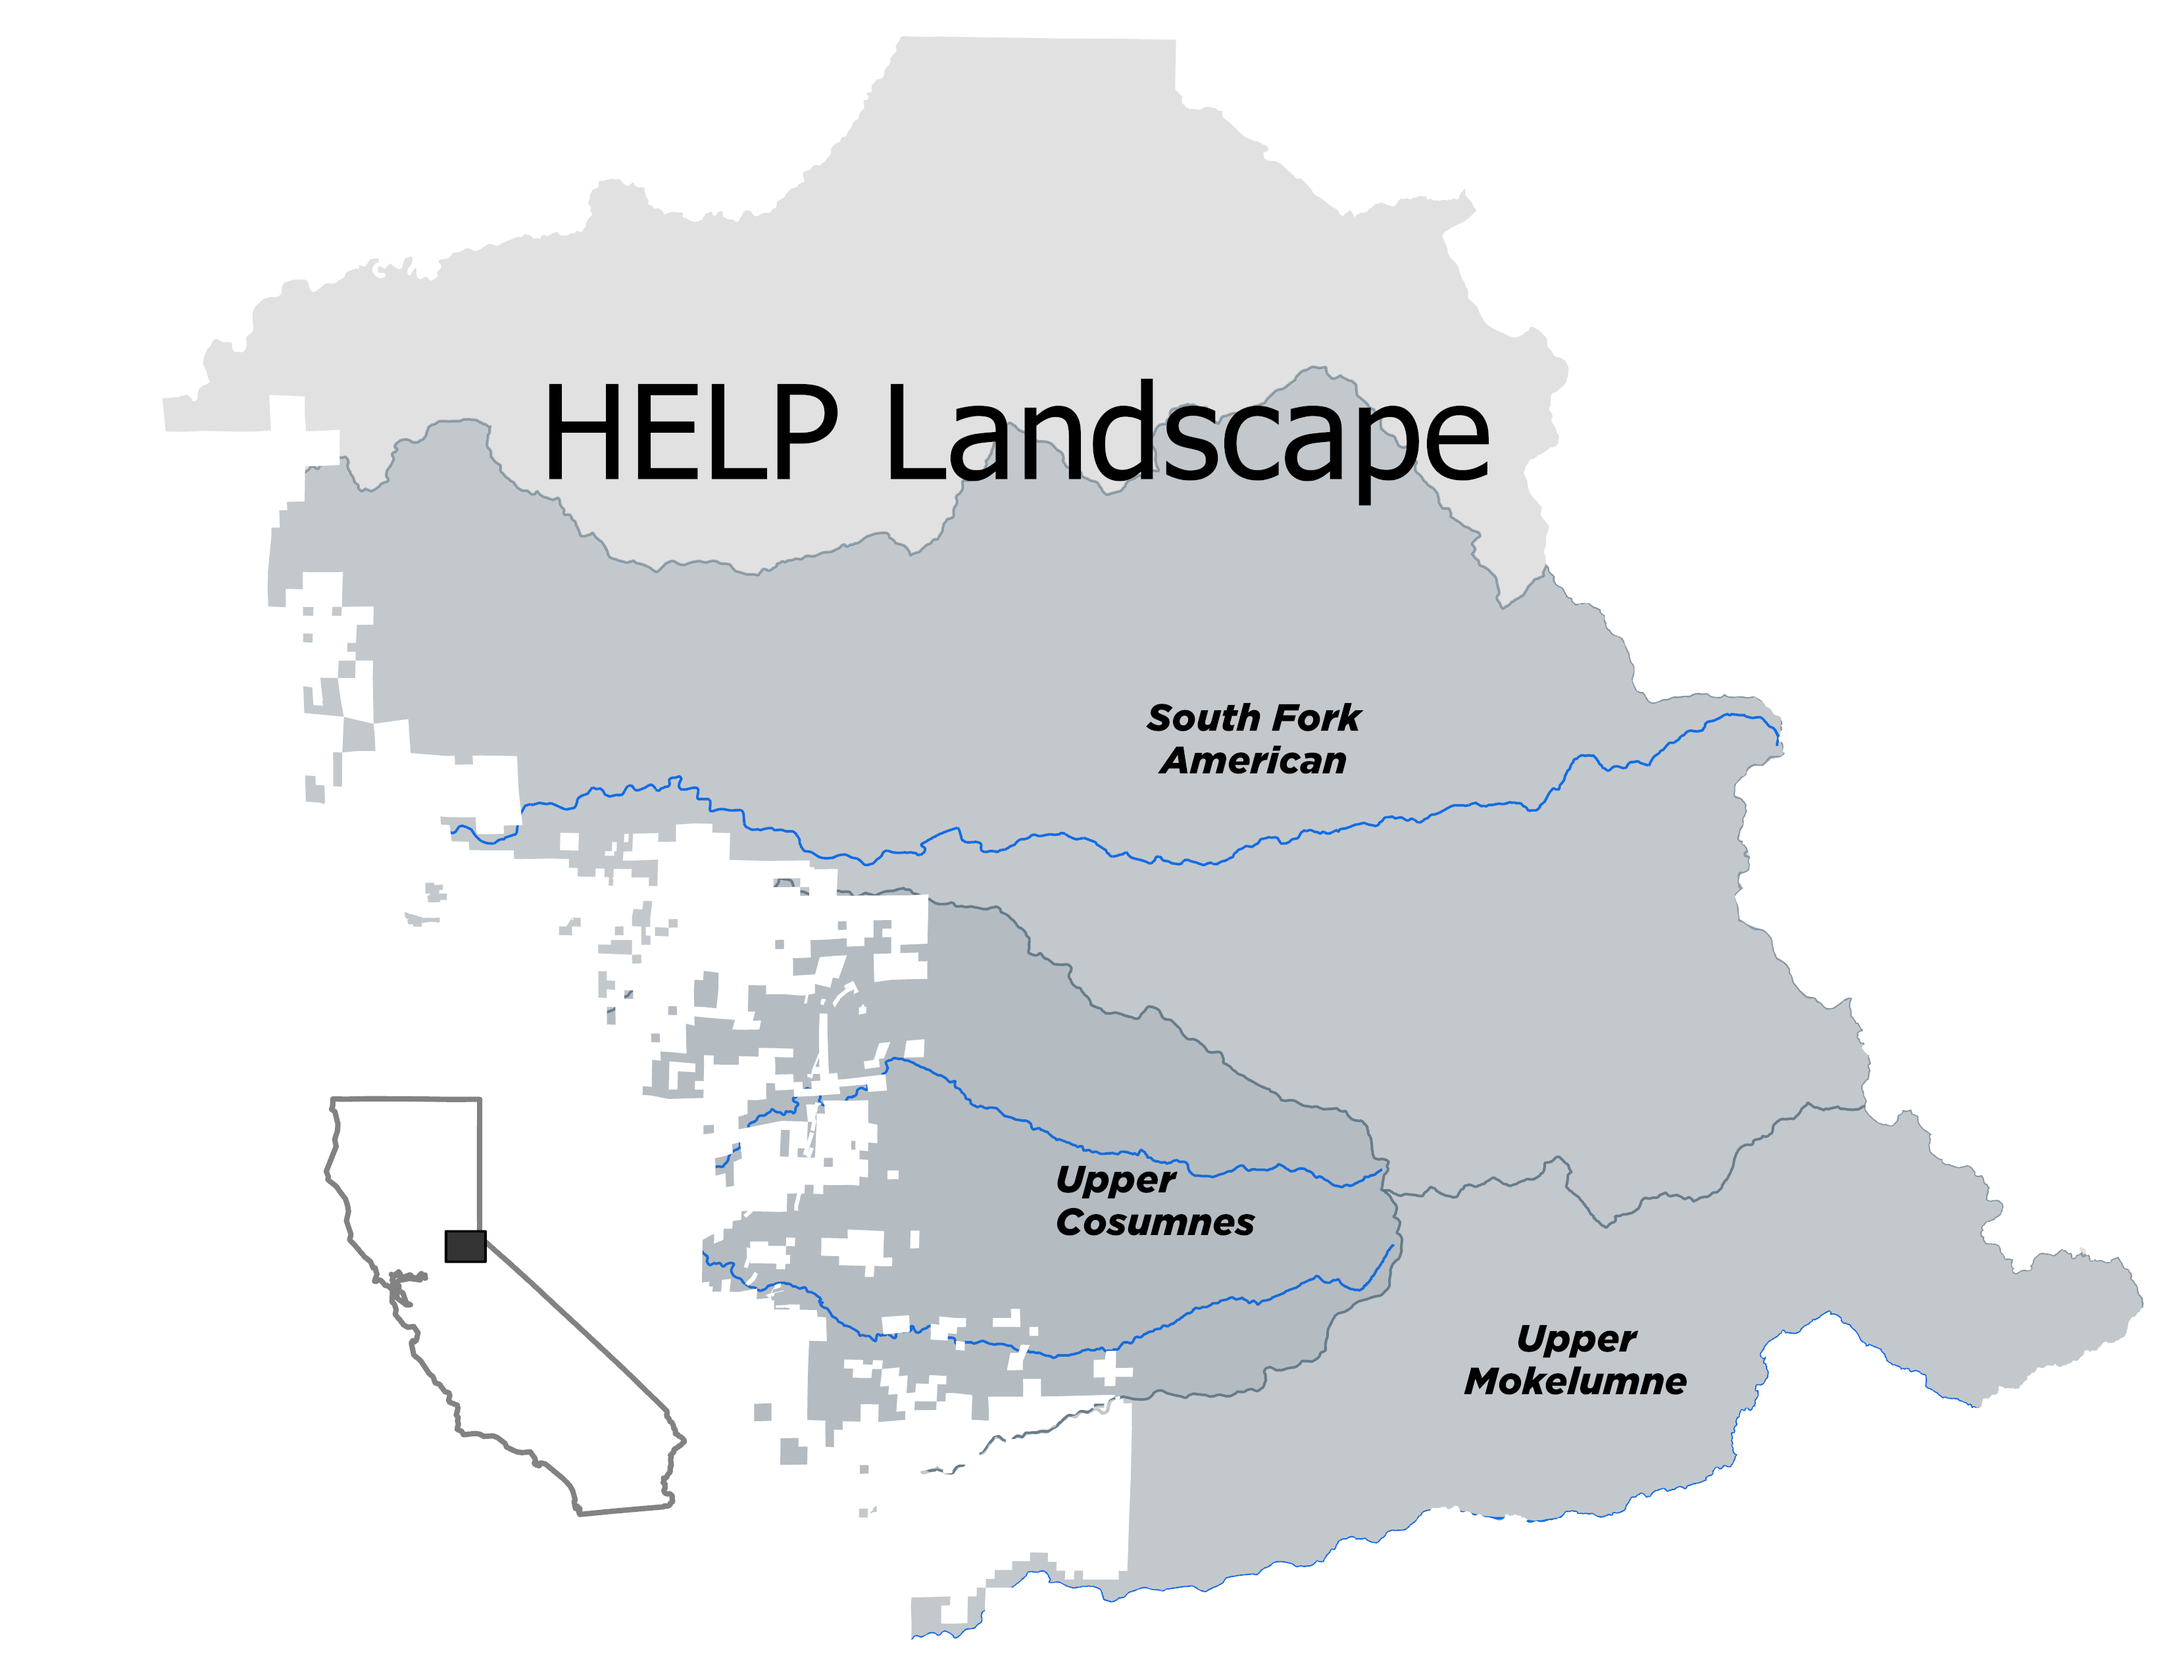
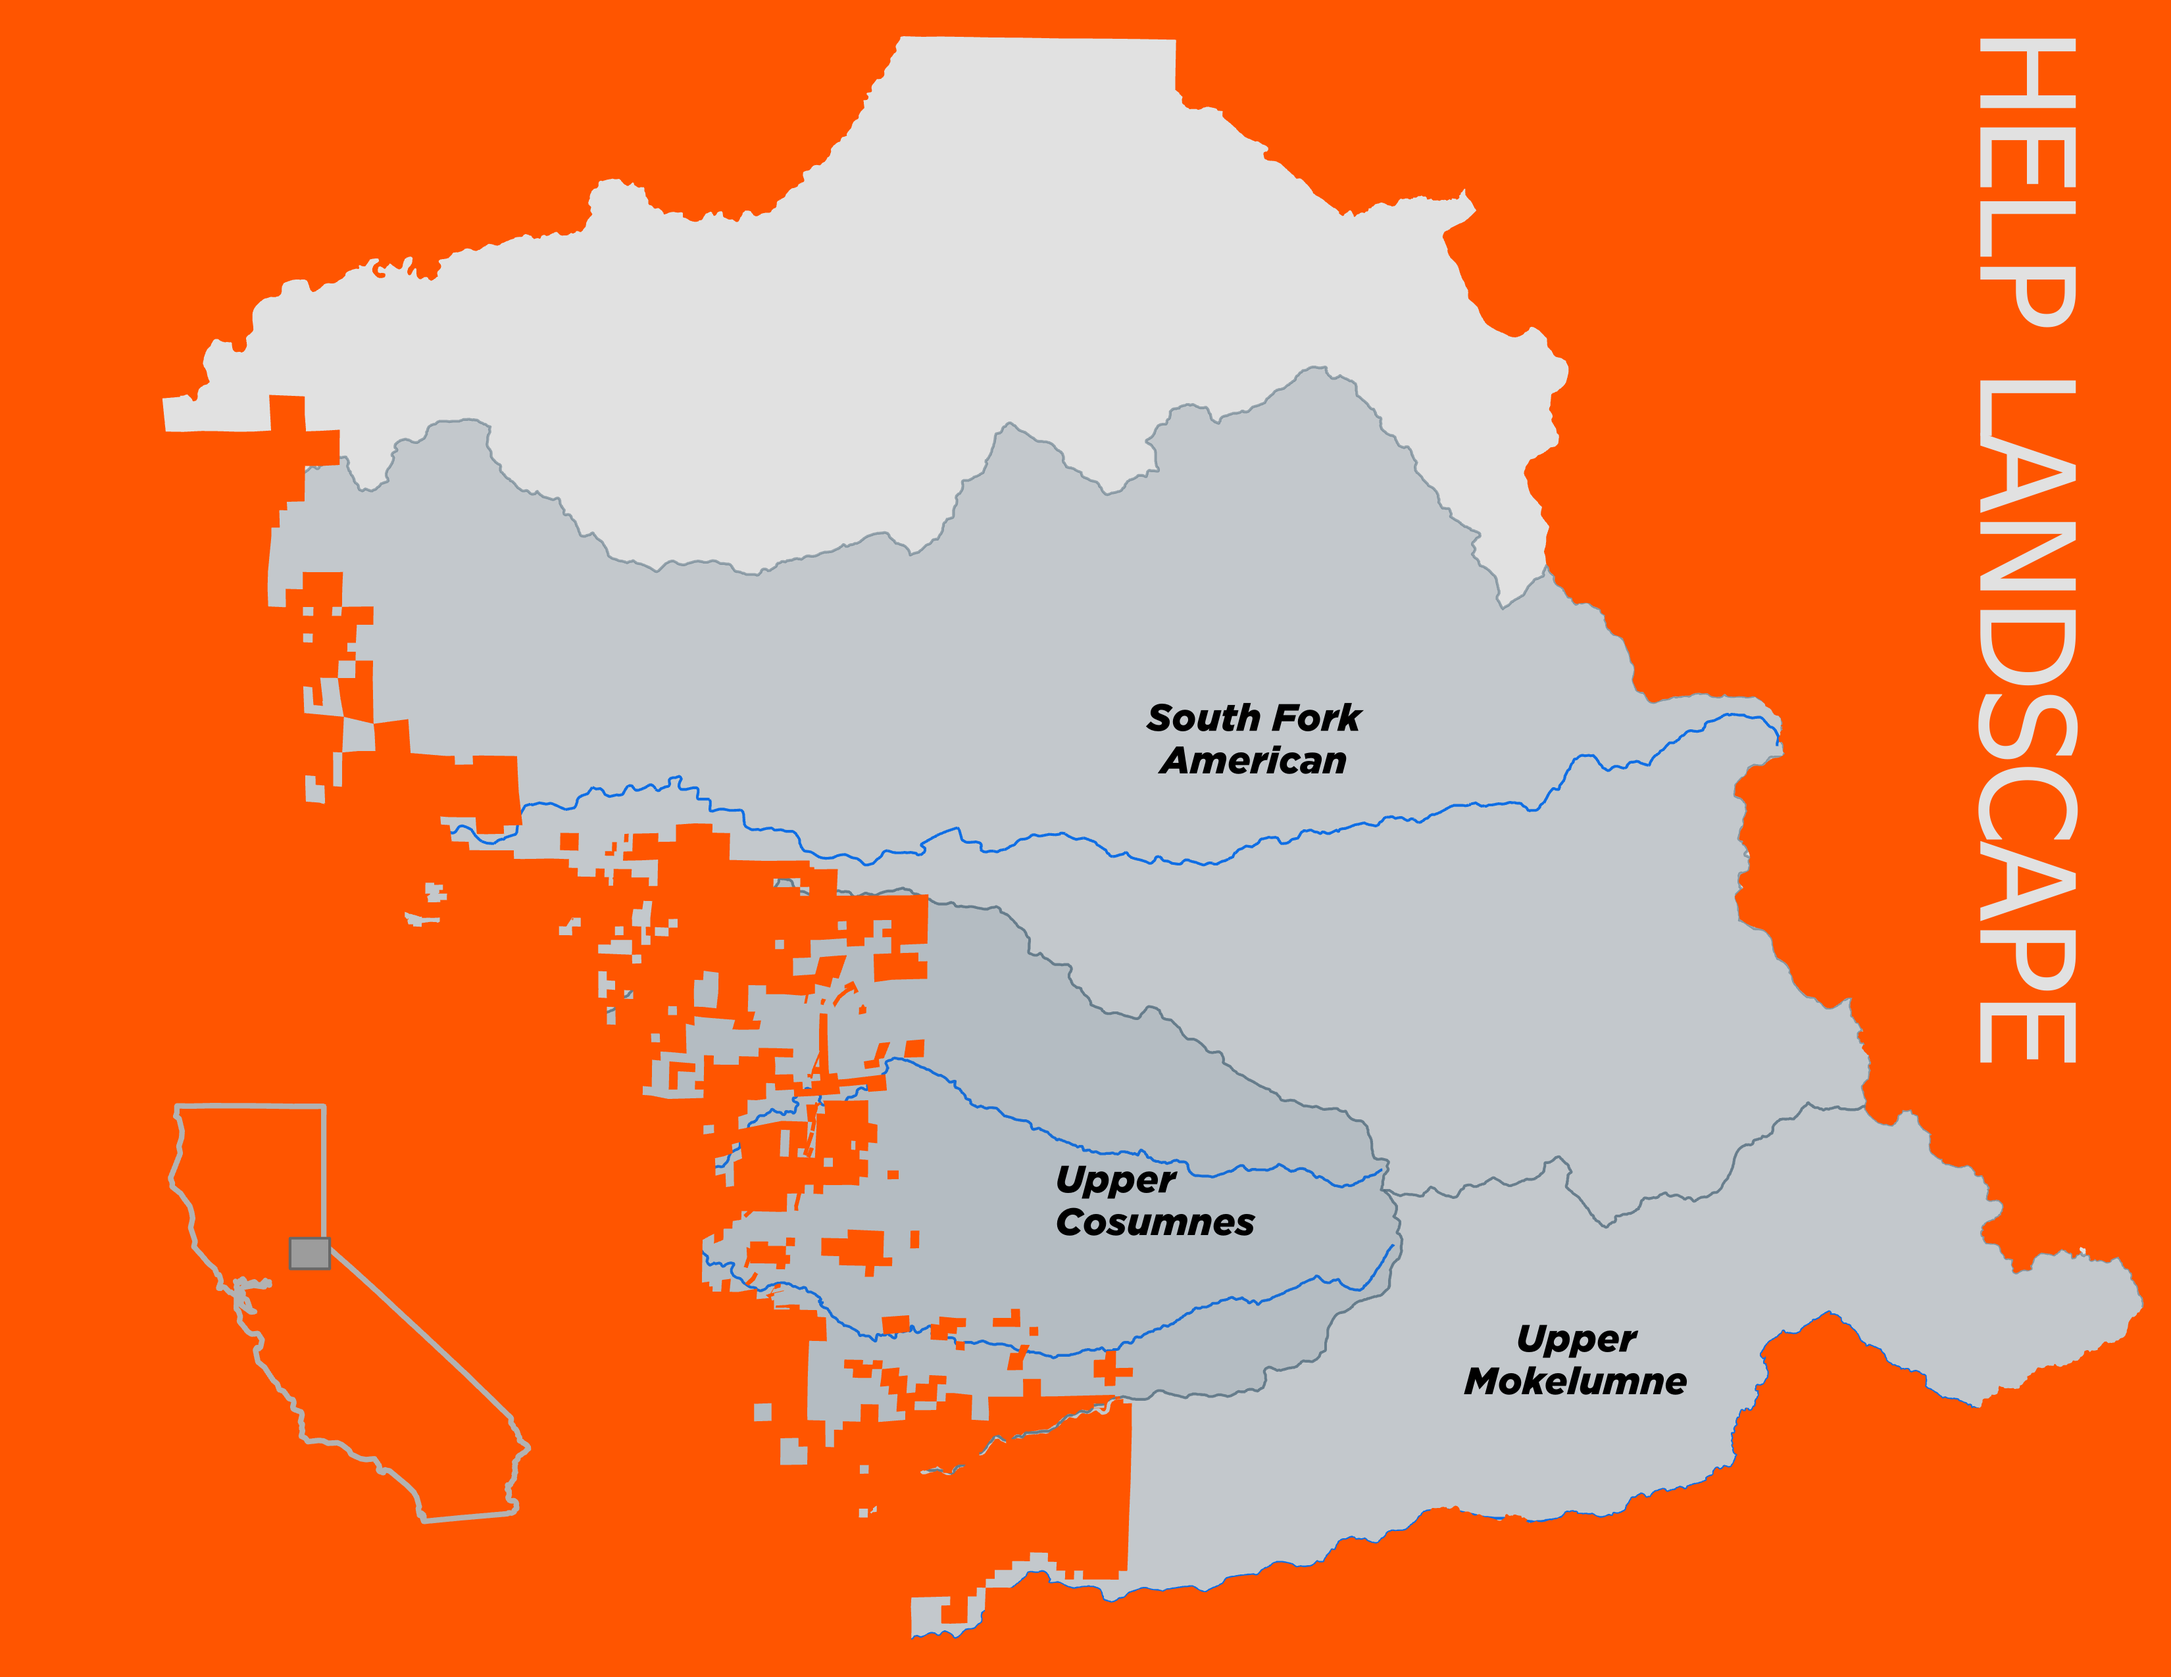
help map edits

diff --git a/index.html b/index.html
@@ -184,12 +184,8 @@
                         <!-- Map image inserted here -->
                         <img src="assets/helpaoi.png" alt="HELP Area of Interest Map" class="img-fluid rounded shadow my-4" style="max-width: 70%; height: auto; display: inline-block;">
                         <p class="text-white-75 mb-4">
-                            The Healthy Eldorado Partnership Strategy is intended to buttress the Eldorado National Forest Resilience Strategy while
-                            taking aim at the impediments standing in the way of landscape-scale restoration. In addition to leveraging financial
-                            resources, HELP will address constraints surrounding workforce attrition, sawmill and biomass utilization operational
-                            capacity, planning resources, and acquisition of the physical equipment to make the transformational changes needed to
-                            build an ecologically and economically resilient landscape through a sustainable proactive forest and watershed
-                            management. <br><br>Check out this video on Restoring Landscape Resilience in Crystal Basin
+                            The Healthy Eldorado Partnership (HELP) is intended to buttress the Eldorado National Forest Resilience Strategy while
+                            taking aim at the impediments standing in the way of landscape-scale restoration. The partnership works across the Eldorado National Forest in the watersheds shown in gray (see map above). In addition to leveraging financial resources, HELP will address constraints surrounding workforce attrition, sawmill and biomass utilization operational capacity, planning resources, and acquisition of the physical equipment to make the transformational changes needed to build an ecologically and economically resilient landscape through a sustainable proactive forest and watershed management. <br><br>Check out this video on Restoring Landscape Resilience in Crystal Basin
                         </p>
                         <div class="text-center my-4">
                             <iframe width="800" height="500" src="https://www.youtube.com/embed/W-cNA2pgKWo" title="Restoring Landscape Resilience in Crystal Basin" frameborder="0" allow="accelerometer; autoplay; clipboard-write; encrypted-media; gyroscope; picture-in-picture; web-share" allowfullscreen style="max-width: 100%;"></iframe>
